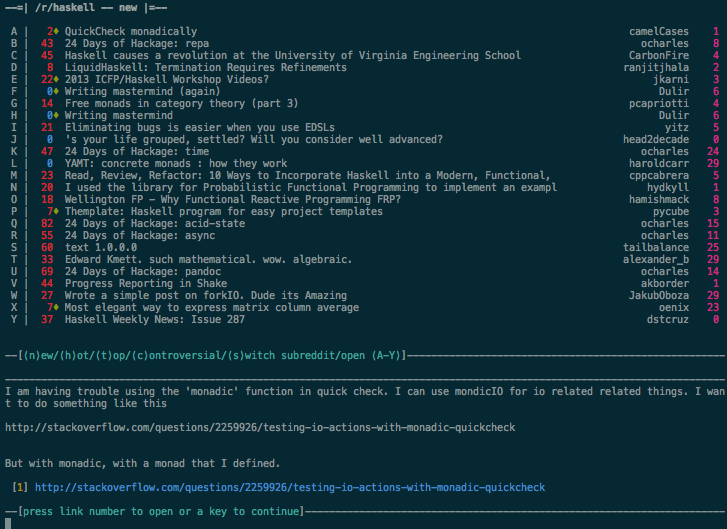
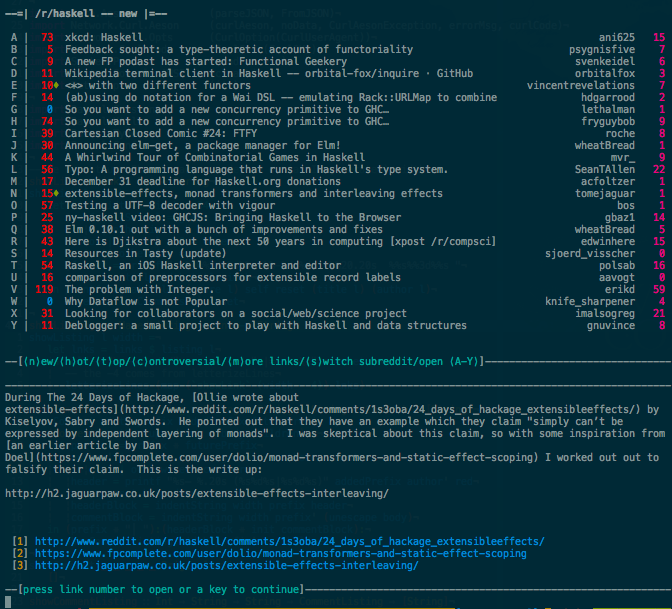
getting ready for hackage

diff --git a/README.md b/README.md
@@ -43,14 +43,28 @@ detected in posts will be opened in your default browser.
 
 ![screenshot](https://github.com/soli/rascal/raw/master/screenshot.png)
 
+Comments are shown threaded, with the order defined in the configuration file
+(defaulting to "new"), and one page at a time if `pageComments` is true
+(default). Comments, like posts, are formatted to avoid cutting words when
+possible.
+
+![threads](https://github.com/soli/rascal/raw/master/threads.png)
+
 ### Notes
 
 In case you wonder, my iTerm2 is using the dark
 [solarized](https://github.com/altercation/solarized) color scheme. The ASCII
-title was generated with `figlet -f chunky`.
+title was generated with `figlet -f chunky`. And the name comes from my own
+pronunciation of `/r/haskell`.
+
+### Planned Features
+
+* Configuration for colors
+* OAuth2 login to reddit (subscribed/saved/etc.)
+* more tests
 
 ## Disclaimer
 
 Please note that rascal is my first Haskell project. As such, it is as much a
-fun experiment for me to discover the ecosystem and the idiodms, than a really
+fun experiment for me to discover the ecosystem and the idioms, than a really
 useful project. TL;DR: YMMV.
